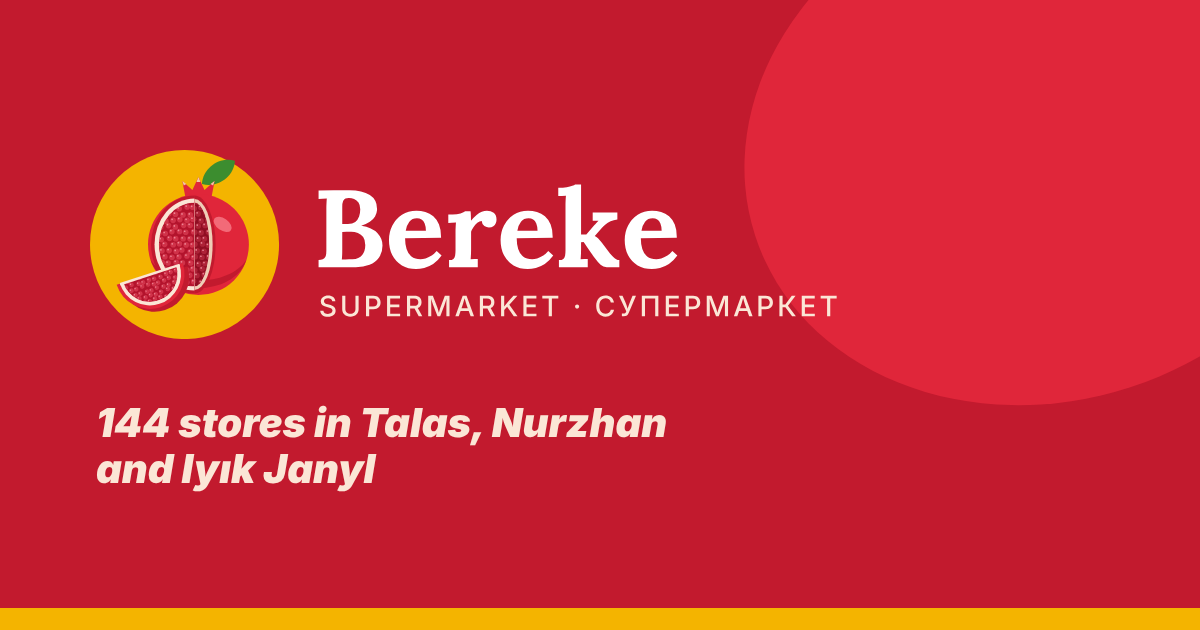
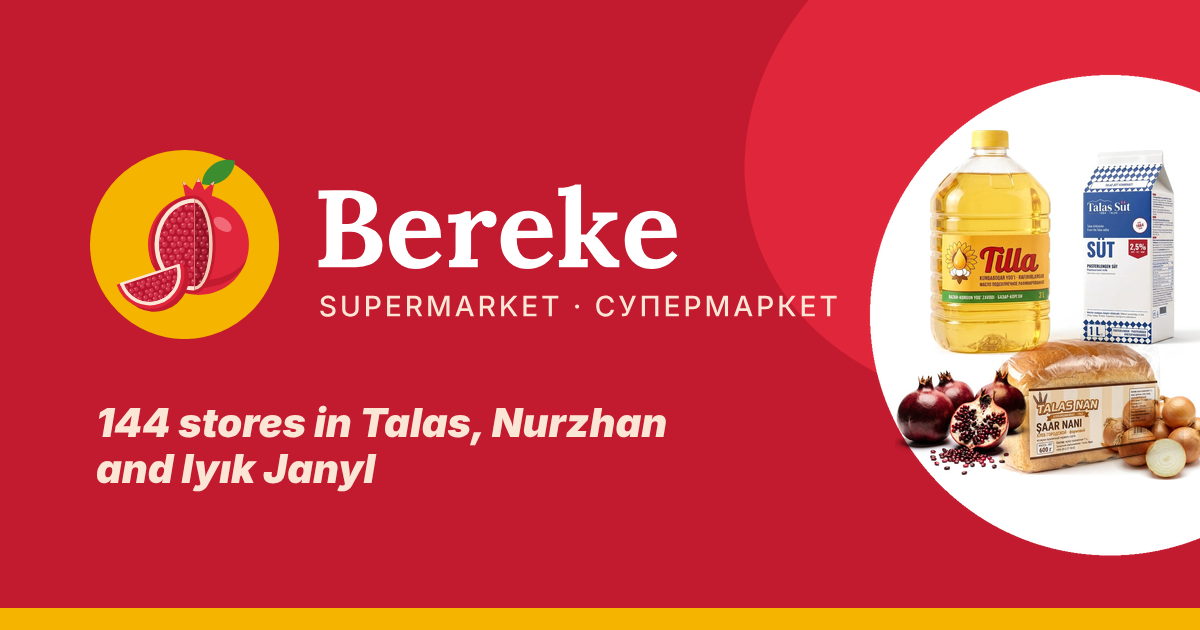
Mirror sync

Changed region(s): [[0.7092, 0.1206, 1.0, 0.9048]]

diff --git a/index.html b/index.html
@@ -8,14 +8,24 @@
 <link rel="icon" href="favicon.svg" type="image/svg+xml">
 <link rel="icon" href="favicon-32.png" sizes="32x32" type="image/png">
 <link rel="apple-touch-icon" href="apple-touch-icon.png">
+<link rel="canonical" href="https://berekemarket.com/">
 <meta property="og:type" content="website">
 <meta property="og:site_name" content="Bereke">
+<meta property="og:locale" content="en_GB">
 <meta property="og:title" content="Bereke: supermarkets in Talas, Nurzhan and Iyık Janyl">
-<meta property="og:description" content="Weekly prices, offers and 144 stores near you.">
-<meta property="og:image" content="https://berekemarket.com/share.png">
+<meta property="og:description" content="Weekly prices, offers and 144 Bereke and Bereke Xpress stores in Talas, Nurzhan and Iyık Janyl.">
 <meta property="og:url" content="https://berekemarket.com/">
+<meta property="og:image" content="https://berekemarket.com/share.png">
+<meta property="og:image:width" content="1200">
+<meta property="og:image:height" content="630">
+<meta property="og:image:alt" content="Bereke supermarket logo with Tilla oil, Talas Süt milk, Şaar nanı, pomegranates and onions">
 <meta name="twitter:card" content="summary_large_image">
+<meta name="twitter:title" content="Bereke: supermarkets in Talas, Nurzhan and Iyık Janyl">
+<meta name="twitter:description" content="Weekly prices, offers and 144 Bereke and Bereke Xpress stores in Talas, Nurzhan and Iyık Janyl.">
+<meta name="twitter:image" content="https://berekemarket.com/share.png">
 <meta name="theme-color" content="#C21A2E">
+<link rel="icon" href="favicon-192.png" sizes="192x192" type="image/png">
+<script type="application/ld+json">{"@context": "https://schema.org", "@type": "GroceryStore", "name": "Bereke", "alternateName": "Bereke Supermarket", "url": "https://berekemarket.com/", "logo": "https://berekemarket.com/img/logo/bereke-logo.svg", "image": "https://berekemarket.com/share.png", "slogan": "Plenty on every table", "telephone": "+996-39-2-21-44-00", "priceRange": "$", "currenciesAccepted": "KGS", "areaServed": ["Talas", "Nurzhan", "Iyık Janyl"]}</script>
 <link rel="preconnect" href="https://fonts.googleapis.com">
 <link rel="preconnect" href="https://fonts.gstatic.com" crossorigin>
 <link href="https://fonts.googleapis.com/css2?family=Inter:ital,wght@0,400;0,500;0,600;0,700;0,800;1,700;1,800;1,900&family=Lora:wght@700&display=swap" rel="stylesheet">
@@ -121,12 +131,12 @@
         <div class="slide__pic"><span class="blob blob--wide"><img src="img/photos/s_checkout.jpg" alt="At the till in a Bereke supermarket"></span></div>
       </article>
 
-      <article class="slide s-pith" data-thumb="img/photos/p_bread.jpg">
+      <article class="slide s-pith" data-thumb="img/photos/p_c_saar_nan.jpg">
         <div class="slide__txt">
           <h2>Şaar nanı,<br>warm every morning</h2>
           <p>Straight from the Talas Nan Kombinatı vans to our shelves before 7:00.</p>
         </div>
-        <div class="slide__pic"><span class="blob"><img src="img/photos/p_bread.jpg" alt="A tin loaf and a round flatbread"></span>
+        <div class="slide__pic"><span class="blob"><img src="img/photos/p_c_saar_nan.jpg" alt="A Talas Nan Şaar nanı tin loaf"></span>
           <span class="tag tag--big"><b>3.50</b><small>som</small></span></div>
       </article>
 
@@ -151,15 +161,15 @@
     <h2 class="huge reveal">Offers<br>for you</h2>
     <div class="offer-row">
       <a class="offer reveal" href="catalog.html" style="--d:0s">
-        <span class="offer__top"><span class="offer__disc"><img src="img/logo/bereke-mark-simple-disc.svg" alt=""></span></span>
+        <span class="offer__top"><span class="offer__pics" aria-hidden="true"><img loading="lazy" src="img/photos/o_c_flour_first.jpg" alt=""><img loading="lazy" src="img/photos/o_c_tilla_sun.jpg" alt=""><img loading="lazy" src="img/photos/o_c_saar_nan.jpg" alt=""></span></span>
         <span class="offer__bot">Lower prices on the 50 things you buy every week</span>
       </a>
       <a class="offer offer--deep reveal" href="#offers" style="--d:.12s">
-        <span class="offer__top"><span class="offer__disc"><img src="img/logo/bereke-mark-simple-disc.svg" alt=""></span></span>
+        <span class="offer__top"><span class="offer__pics" aria-hidden="true"><img loading="lazy" src="img/photos/o_ts_smetana.jpg" alt=""><img loading="lazy" src="img/photos/o_ts_milk25.jpg" alt=""><img loading="lazy" src="img/photos/o_ts_kefir.jpg" alt=""></span></span>
         <span class="offer__bot">Talas Süt fresh on the shelf by eight</span>
       </a>
       <a class="offer offer--yellow reveal" href="#offers" style="--d:.24s">
-        <span class="offer__top"><span class="offer__disc offer__disc--red"><img src="img/logo/bereke-mark-white.svg" alt=""></span></span>
+        <span class="offer__top"><span class="offer__pics" aria-hidden="true"><img loading="lazy" src="img/photos/o_carrots.jpg" alt=""><img loading="lazy" src="img/photos/o_potatoes.jpg" alt=""><img loading="lazy" src="img/photos/o_c_onions.jpg" alt=""></span></span>
         <span class="offer__bot">Autumn fair: vegetables by the sack</span>
       </a>
     </div>

diff --git a/catalog.html b/catalog.html
@@ -3,24 +3,32 @@
 <head>
 <meta charset="utf-8">
 <meta name="viewport" content="width=device-width, initial-scale=1">
-<title>Catalogue: Bereke</title>
-<meta name="description" content="Bereke is Irad's largest supermarket chain: 144 Bereke and Bereke Xpress stores in Talas, Nurzhan and Iyık Janyl. Weekly prices, offers, store finder and news.">
+<title>Catalogue and prices this week: Bereke</title>
+<meta name="description" content="This week's prices on more than 300 products at Bereke supermarkets: fruit and veg, dairy, meat, bread, groceries and household goods.">
 <link rel="icon" href="favicon.svg" type="image/svg+xml">
 <link rel="icon" href="favicon-32.png" sizes="32x32" type="image/png">
 <link rel="apple-touch-icon" href="apple-touch-icon.png">
+<link rel="canonical" href="https://berekemarket.com/catalog.html">
 <meta property="og:type" content="website">
 <meta property="og:site_name" content="Bereke">
-<meta property="og:title" content="Bereke: supermarkets in Talas, Nurzhan and Iyık Janyl">
-<meta property="og:description" content="Weekly prices, offers and 144 stores near you.">
-<meta property="og:image" content="https://berekemarket.com/share.png">
+<meta property="og:locale" content="en_GB">
+<meta property="og:title" content="Catalogue and prices this week: Bereke">
+<meta property="og:description" content="This week's prices on more than 300 products at Bereke supermarkets: fruit and veg, dairy, meat, bread, groceries and household goods.">
 <meta property="og:url" content="https://berekemarket.com/catalog.html">
+<meta property="og:image" content="https://berekemarket.com/share.png">
+<meta property="og:image:width" content="1200">
+<meta property="og:image:height" content="630">
+<meta property="og:image:alt" content="Bereke supermarket logo with Tilla oil, Talas Süt milk, Şaar nanı, pomegranates and onions">
 <meta name="twitter:card" content="summary_large_image">
+<meta name="twitter:title" content="Catalogue and prices this week: Bereke">
+<meta name="twitter:description" content="This week's prices on more than 300 products at Bereke supermarkets: fruit and veg, dairy, meat, bread, groceries and household goods.">
+<meta name="twitter:image" content="https://berekemarket.com/share.png">
 <meta name="theme-color" content="#C21A2E">
+<link rel="icon" href="favicon-192.png" sizes="192x192" type="image/png">
 <link rel="preconnect" href="https://fonts.googleapis.com">
 <link rel="preconnect" href="https://fonts.gstatic.com" crossorigin>
 <link href="https://fonts.googleapis.com/css2?family=Inter:ital,wght@0,400;0,500;0,600;0,700;0,800;1,700;1,800;1,900&family=Lora:wght@700&display=swap" rel="stylesheet">
 <link rel="stylesheet" href="css/site.css">
-</head>
 <style>
 .cat{padding:110px 0 70px}
 .cat h1{font-size:40px;font-weight:900;font-style:italic;color:var(--deep);margin-bottom:6px}

diff --git a/js/cart.js b/js/cart.js
@@ -100,7 +100,9 @@
       var b = $('.card__buy', c); if (!b) return;
       var k = find(txt(c, '.card__name'), txt(c, '.card__unit'));
       b.classList.toggle('added', k > -1);
-      b.textContent = k > -1 ? 'In cart · ' + cart[k][4] : 'Add to cart';
+      if (k > -1) b.innerHTML = '<span class="qb" data-bdec aria-label="One less">−</span><span class="qn">' + cart[k][4] + '</span><span class="qb" data-binc aria-label="One more">+</span>';
+      else b.textContent = 'Add to cart';
+      b.setAttribute('aria-label', k > -1 ? cart[k][4] + ' in cart' : 'Add to cart');
     });
   }
   function txt(c, s) { var e = $(s, c); return e ? e.textContent.trim() : ''; }
@@ -116,7 +118,11 @@
       var pb = $('.price b', c), img = $('.card__img img', c);
       var src = img ? (img.getAttribute('src') || '') : '', m = src.match(/photos\/([^/]+)\.jpg$/);
       var k = find(n, u);
-      if (k > -1) cart[k][4] = Math.min(cart[k][4] + 1, 99);
+      if (k > -1) {
+        if (e.target.closest('[data-bdec]')) { cart[k][4]--; if (cart[k][4] < 1) cart.splice(k, 1); save(); render(); return; }
+        if (!e.target.closest('[data-binc]')) return;
+        cart[k][4] = Math.min(cart[k][4] + 1, 99);
+      }
       else { if (cart.length >= MAX) { alertMsg('Your cart holds up to ' + MAX + ' different products.'); return; } cart.push([n, u, pb ? pb.textContent.trim() : '0', m ? m[1] : '', 1]); }
       save(); render();
       hb.classList.remove('bump'); void hb.offsetWidth; hb.classList.add('bump');
@@ -216,6 +222,11 @@
   fup.elements.em.addEventListener('input', function () { this.classList.remove('bad'); });
   document.addEventListener('keydown', function (e) { if (e.key === 'Escape') { if (!a.hidden) a.hidden = true; else if (!d.hidden) close(); } });
 
-  var mo, tm; if (window.MutationObserver) { mo = new MutationObserver(function () { clearTimeout(tm); tm = setTimeout(render, 30); }); mo.observe(document.body, { childList: true, subtree: true }); }
+  var mo, tm; if (window.MutationObserver) { mo = new MutationObserver(function (ms) {
+    for (var i = 0; i < ms.length; i++) for (var j = 0; j < ms[i].addedNodes.length; j++) {
+      var nd = ms[i].addedNodes[j];
+      if (nd.nodeType === 1 && (nd.classList.contains('card') || nd.querySelector('.card'))) { clearTimeout(tm); tm = setTimeout(render, 30); return; }
+    }
+  }); mo.observe(document.body, { childList: true, subtree: true }); }
   render();
 })();

diff --git a/js/site.js b/js/site.js
@@ -16,19 +16,18 @@
   var WEEK = '10–16 Nov';
   var PRODUCTS = {
     week: [
-      { img: 'p_pomegranates', name: 'Pomegranates, loose', unit: '1 kg', old: '6.80', now: '5.90', off: 13 },
+      { img: 'p_pomegranates', name: 'Pomegranates', unit: '1 kg', old: '6.80', now: '5.90', off: 13 },
       { img: 'p_apples', name: 'Chu valley apples, red', unit: '1 kg', old: '3.90', now: '3.40', off: 13 },
       { img: 'p_beef', name: 'Beef rib steak, fresh', unit: '1 kg', now: '52.00' },
-      { img: 'p_water', name: 'Altyn-Bulak mineral water, glass', unit: '0.5 l', now: '1.20' },
-      { img: 'p_oil', name: 'Sunflower oil, refined', unit: '3 l', old: '31.40', now: '27.90', off: 11 }
+      { img: 'p_c_altynbulak_glass', name: 'Altyn-Bulak mineral water, glass', unit: '0.5 l', now: '1.20' },
+      { img: 'p_ts_kefir', name: 'Talas Süt kefir 2.5%', unit: '1 l', old: '4.50', now: '4.10', off: 9 }
     ],
     plov: [
-      { img: 'p_rice', name: 'Devzira rice, red', unit: '1 kg', old: '16.20', now: '14.50', off: 10 },
-      { img: 'p_onions', name: 'Onions and yellow carrots', unit: '1 kg', now: '1.60' },
-      { img: 'p_tomatoes', name: 'Tomatoes on the vine', unit: '1 kg', old: '8.10', now: '7.20', off: 11 },
-      { img: 'p_bread', name: 'Şaar nanı, Talas Nan', unit: '600 g', now: '3.50' },
-      { img: 'p_kefir', name: 'Talas Süt kefir 2.5%', unit: '2 l', old: '8.20', now: '7.40', off: 10 }
-    ]
+      { img: 'p_c_devzira', name: 'Devzira rice, red', unit: '1 kg', old: '16.20', now: '14.50', off: 10 },
+      { img: 'p_carrots', name: 'Yellow carrots, loose', unit: '1 kg', old: '1.90', now: '1.40', off: 26 },
+      { img: 'p_c_onions', name: 'Onions, loose', unit: '1 kg', old: '1.60', now: '1.20', off: 25 },
+      { img: 'p_c_tilla_sun', name: 'Tilla Kungaboqar sunflower oil', unit: '3 l', old: '31.40', now: '27.90', off: 11 },
+      { img: 'p_c_saar_nan', name: 'Şaar nanı tin loaf', unit: '600 g', now: '3.50' }]
   };
 
   /* ---- product cards ---- */

diff --git a/css/site.css b/css/site.css
@@ -408,3 +408,21 @@ html.nosc{overflow:hidden}
 .acct__alt{font-size:13px;text-align:center;margin:12px 0 0;color:var(--muted)}
 .acct__alt a{color:var(--red);font-weight:600}
 .cartd[hidden],.acct[hidden],.acct__f[hidden]{display:none}
+
+.card__buy.added{display:flex;align-items:center;justify-content:space-between;padding:0 4px;cursor:default}
+.card__buy.added:hover{background:var(--leaf)}
+.card__buy .qb{width:30px;height:28px;display:grid;place-items:center;border-radius:999px;font-size:18px;line-height:1;cursor:pointer;transition:background .15s}
+.card__buy .qb:hover{background:rgba(255,255,255,.22)}
+.card__buy .qn{font-weight:700;font-size:14px}
+
+.offer__top{position:relative;padding:10px 12px 0;align-items:stretch}
+.offer__pics{display:flex;align-items:flex-end;justify-content:center;width:100%;pointer-events:none}
+.offer__pics img{flex:0 1 auto;min-width:0;max-width:40%;height:auto;max-height:150px;margin:0 2px;object-fit:contain;object-position:50% 100%;mix-blend-mode:multiply;filter:brightness(1.06) contrast(1.03);transition:transform .5s var(--ease)}
+.offer__pics img:nth-child(2){transform:scale(1.08);transform-origin:50% 100%}
+.offer:hover .offer__pics img{transform:translateY(-5px)}
+.offer:hover .offer__pics img:nth-child(2){transform:translateY(-5px) scale(1.08)}
+.offer--yellow .offer__top{background:#fff}
+.offer__top{flex:1.5;padding:16px 14px 6px}
+.offer__pics{align-items:flex-end;height:100%}
+.offer__pics img:nth-child(2){max-height:165px}
+.offer--yellow .offer__pics img{max-width:50%;margin:0 -7%}
